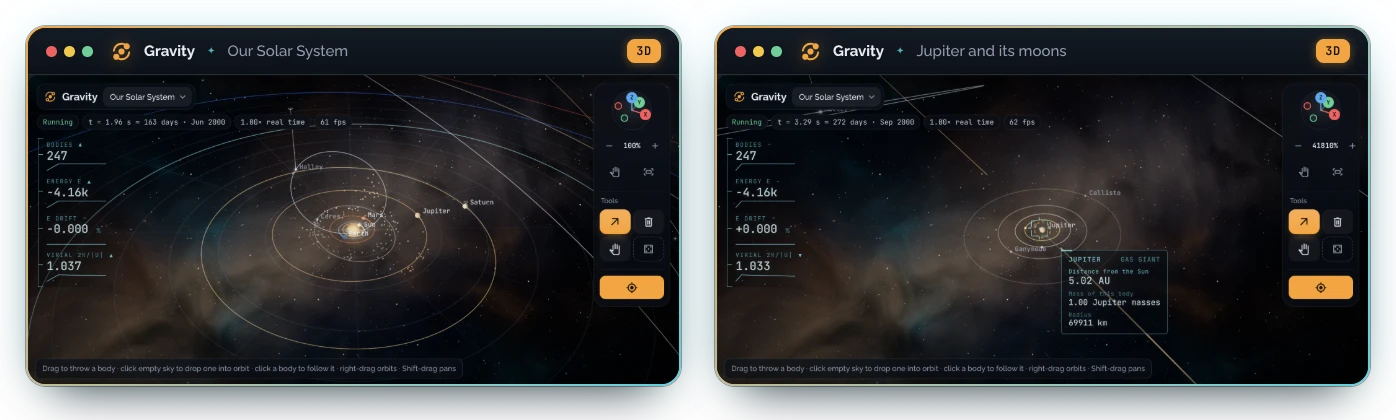
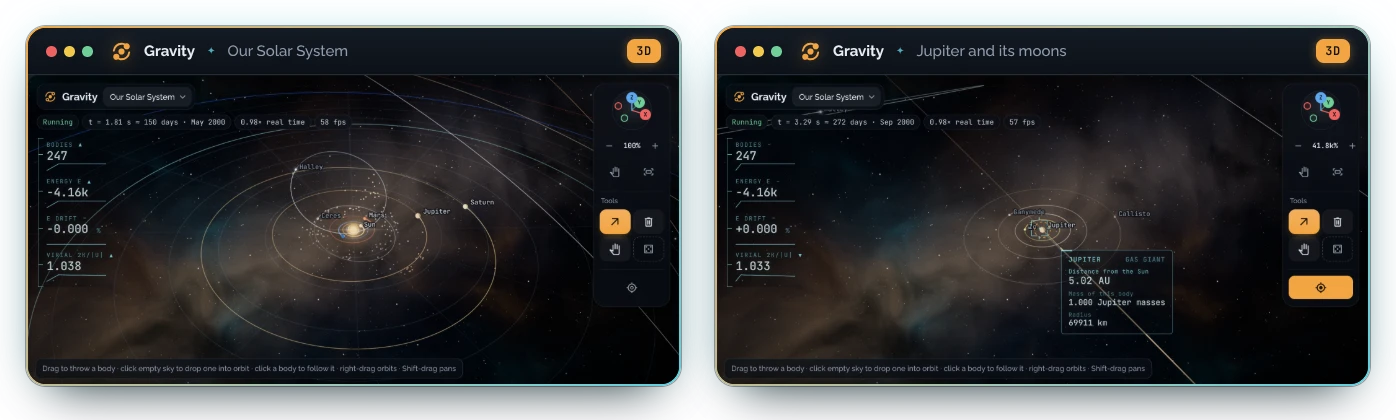
Recapture the Solar System picture for 2.10.0
The README pair now shows the orbits fading back from each body, without
the depth-mark sticks, and the close-up's zoom in short form (41.8k%).
The media manifest and the changelog record the run.

Claude-Session: https://claude.ai/code/session_0127U9NVEHKPsjD4bB32NyRk

diff --git a/docs/media/MANIFEST.md b/docs/media/MANIFEST.md
@@ -1,10 +1,10 @@
 <!--
 ✒ Metadata
-    - Title: README Media Manifest (digiSpace Edition - v2.9)
+    - Title: README Media Manifest (digiSpace Edition - v2.10)
     - File Name: MANIFEST.md
     - Relative Path: docs/media/MANIFEST.md
     - Artifact Type: docs
-    - Version: 2.9.0
+    - Version: 2.10.0
     - Date: 11/14/2026
     - Update: Saturday, November 14, 2026
     - Author: Dennis 'dendogg' Smaltz
@@ -12,6 +12,10 @@
     - Signature: ︻デ═─── ✦ ✦ ✦ | Aim Twice, Shoot Once!
 
 ✒ Changelog:
+    - 2.10.0 (11/14/2026) [dendogg + Anthropic - Claude Opus 5.5] — The Solar
+      System pair is recaptured from release 2.10.0: its orbits fade back
+      round from each body, the depth marks give way to them, and the close-up
+      reads its zoom in short form.
     - 2.9.0 (11/14/2026) [dendogg + Anthropic - Claude Opus 5.5] — The hero is
       recaptured from release 2.9.0: the Star system's planets as the research
       classes make them, gas giants, and the planet-class buttons under New
@@ -90,9 +94,10 @@ and `sol`, or single gallery labs by id, for example `--only chaos` after a
 change to that lab's scene. Commit the WebP files with
 the change that made them necessary.
 
-The Solar System pair was captured from release 2.8.0 on 11/10/2026 in the
+The Solar System pair was captured from release 2.10.0 on 11/14/2026 in the
 same way, about five months into the run (the scene also runs while the page
-boots). The hero was captured from release 2.9.0 on 11/14/2026, headless in
+boots). Its orbits fade back round from each body, and the close-up's zoom
+reads in short form (41.8k%). The hero was captured from release 2.9.0 on 11/14/2026, headless in
 software WebGL on four CPU cores, in metric units. It shows the head-up
 display's readings tape, and the Star system's planets as the gas giants the
 research classes make them, with the planet-class buttons under New bodies.
@@ -115,7 +120,7 @@ banner, which shows no interface, from release 2.3.0.
 | `lab-chaos.webp` | 1106 × 610 | Chaos, Sensitive start in the Both view (the pendulum beside its phase map), 9 s in, with a start previewed on the map | Lab gallery |
 | `lab-cloth.webp` | 1106 × 610 | Cloth, Flag in wind, 4 s in | Lab gallery |
 | `lab-fields.webp` | 1106 × 610 | Fields, Cyclotron motion, 3 s in | Lab gallery |
-| `sol-system.webp` | 1396 × 420 | Gravity, Our Solar System in 3D, as a pair: the Sun, the planets out to Saturn, Halley's comet and the asteroid belt with their orbits and names, 163 days in (June 2000); then Jupiter followed up close in September 2000, Callisto and Ganymede named on their orbits, with the head-up display's target box and callout on the planet, clear of the names | "Our Solar System" |
+| `sol-system.webp` | 1396 × 420 | Gravity, Our Solar System in 3D, as a pair: the Sun, the planets out to Saturn, Halley's comet and the asteroid belt with their orbits fading back from each body and their names, 150 days in (May 2000); then Jupiter followed up close in September 2000, Callisto and Ganymede named on their orbits, with the head-up display's target box and callout on the planet, clear of the names | "Our Solar System" |
 | `modes-2d-3d.webp` | 1472 × 420 | Waves, Double slit, 6 s in and paused, in 2D and then in 3D at the same moment | "Two modes: 2D and 3D" |
 
 Gravity is not in the gallery because the hero already shows it; its Solar

diff --git a/CHANGELOG.md b/CHANGELOG.md
@@ -124,6 +124,15 @@ in Our Solar System, and his call for more flexible zoom there.
   - the outer limit shows all of Sedna's orbit, and the readout is in short
     form.
 
+### Docs
+
+- **README:** the Our Solar System guide covers the fading orbits and the
+  new zoom range, and the release badge reads 2.10.0.
+- **ARCHITECTURE:** `orbitFrame` and `orbitCurve`, and the `zoomPace` and
+  `zoomLimits3` hooks.
+- **`docs/media/sol-system.webp`** is recaptured with the fading orbits and
+  the short-form zoom reading, and `docs/media/MANIFEST.md` records the run.
+
 ## 2.9.0 (11/14/2026)
 
 [dendogg + Anthropic - Claude Opus 5.5]
